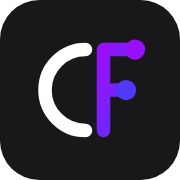
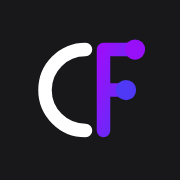
Web instalable: manifiesto, iconos CF y modo pantalla completa

diff --git a/backend/resources/views/layouts/_icons.blade.php b/backend/resources/views/layouts/_icons.blade.php
@@ -1,4 +1,12 @@
+{{-- Iconos y "app web instalable": añadir a la pantalla de inicio (iPhone/Android) abre CodeFlow a pantalla completa con el logo CF --}}
 <link rel="icon" href="{{ asset('favicon.ico') }}" sizes="32x32">
 <link rel="icon" href="{{ asset('favicon.svg') }}" type="image/svg+xml">
 <link rel="apple-touch-icon" href="{{ asset('apple-touch-icon.png') }}">
-<meta name="theme-color" content="#9810FA">
+<link rel="manifest" href="{{ asset('manifest.webmanifest') }}">
+<meta name="theme-color" content="#fafafa" media="(prefers-color-scheme: light)">
+<meta name="theme-color" content="#09090b" media="(prefers-color-scheme: dark)">
+<meta name="application-name" content="CodeFlow">
+<meta name="mobile-web-app-capable" content="yes">
+<meta name="apple-mobile-web-app-capable" content="yes">
+<meta name="apple-mobile-web-app-title" content="CodeFlow">
+<meta name="apple-mobile-web-app-status-bar-style" content="default">
